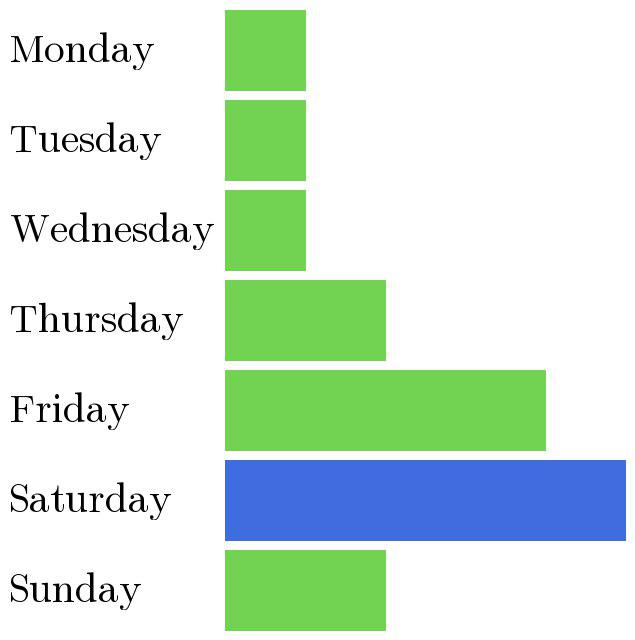
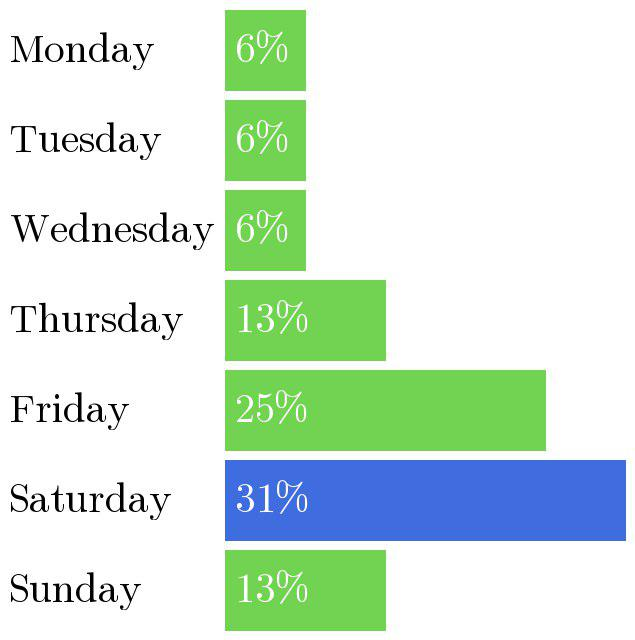
Draw percentage on bar chart

diff --git a/main.py b/main.py
@@ -623,6 +623,23 @@ class WebhookHandler(webapp2.RequestHandler):
                                 col = '#3f6de0'
                             draw.rectangle((longest_answer + SPACE*2, i*(BAR_HEIGHT + SPACE) +SPACE, BAR_WIDTH * answered[i] + longest_answer + SPACE*2, (i+1) * BAR_HEIGHT + (i+1)*SPACE), fill = col)
 
+                            # draw text with percentage on bar
+                            perc_text = str(int(round(answered[i] / sum(answered) * 100))) + '%'
+                            perc_width = font.getsize(perc_text)[0]
+
+                            # offset percentage text if it doesn't fit in the bar
+                            perc_offset = 0
+                            perc_color = '#fff'
+                            if perc_width + 2*SPACE > BAR_WIDTH * answered[i]:
+                                perc_offset = BAR_WIDTH * answered[i]
+                                perc_color = '#000'
+
+                            draw.text((longest_answer + SPACE*3 + perc_offset, i*(BAR_HEIGHT + SPACE) +SPACE*3),
+                                perc_text,
+                                fill = perc_color,
+                                font = font
+                                )
+
                         # send image
                         output = StringIO.StringIO()
                         img.save(output, 'PNG')
